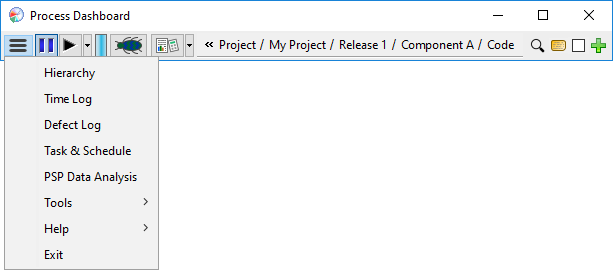
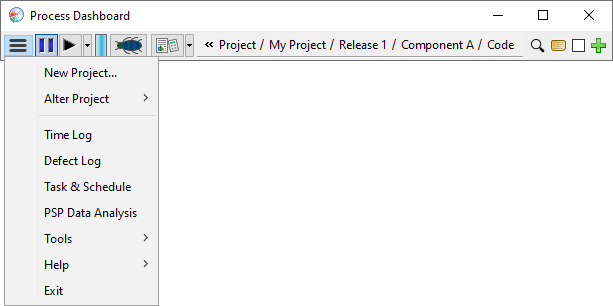
Update the help to describe project creation & modification

diff --git a/Templates/help/Topics/Planning/CreatingProjects.html b/Templates/help/Topics/Planning/CreatingProjects.html
@@ -1,0 +1,169 @@
+<html>
+<head>
+<title>Creating Projects</title>
+<link rel=stylesheet type="text/css" href="../../style.css">
+<link rel=stylesheet type="text/css" href="../../style-comp-table.css">
+</head>
+<body>
+
+
+<h1>Creating Projects</h1>
+
+<p>The Process Dashboard provides powerful support for planning,
+tracking, and managing a set of work.  To take advantage of these
+features, the first step is to create a project.</p>
+
+<p>Dashboard projects can support team work or individual work.  These
+two project types are described below.</p>
+
+
+<h2><a name="team"></a>Team Projects</h2>
+
+<p>If you will be collaborating with other people on the work, you
+should work with your team leader to create a team project.  A team
+project allows your team to share a common work breakdown structure,
+to support each other on shared tasks, and to see project-level
+reports that roll up data from everyone on the team.</p>
+
+<p>Team Projects are created within a Team Dashboard, which
+coordinates the flow of shared data.  Then, you and your team members
+join the project from your personal dashboard.</p>
+
+<p>See the <a href="../../../teamhelp/Topics/Overview.html">Team
+Use</a> section of the Users Manual for extensive help on the use of
+team projects to plan, track, and manage team work.</p>
+
+
+<h2><a name="personal"></a>Personal Projects</h2>
+
+<p>For independent work (or for times when your team members are not
+using the Process Dashboard), you can create a personal project.  A
+personal project:</p>
+
+<ul>
+
+<li>Gives you tools to quickly and easily create a detailed personal
+    task plan</li>
+
+<li>Helps you predict when the work might finish, so you can manage
+    your commitments to others</li>
+
+<li>Provides charts and reports for tracking your progress and
+    improving your process</li>
+
+</ul>
+
+<p>You can also use a personal project to capture data about a
+collection of miscellaneous tasks, even if you don't need to track
+your progress against a schedule. The
+<a href="../../../teamhelp/Topics/EditingTheWBS.html">Work Breakdown
+Structure Editor</a> makes it easy to enter the list of tasks.  Then
+you can use the dashboard toolbar to log time, mark tasks complete,
+etc.</p>
+
+<p>To create a personal project, just choose "New Project" from the 
+<a href="../Execution/ConfigureMenu.html">configuration menu</a>.</p>
+
+
+<h2>Comparing Project Types</h2>
+
+<p style="margin-bottom:16px">Team projects and personal projects are more
+alike than they are different.  Essentially, a personal project provides all
+of the same powerful planning and tracking tools that teams find useful,
+streamlined for a project that has only one team member.  The table below
+offers a comparison:</p>
+
+<table class="comparison" cellspacing="-1">
+
+<tr>
+<td style="border: 0px">&nbsp;</td>
+<td><b>Personal Project</b></td>
+<td><b>Team Project</b></td>
+</tr>
+
+<tr>
+<td class="label">Project is created in</td>
+<td>Personal Dashboard</td>
+<td>Team Dashboard</td>
+</tr>
+
+<tr>
+<td class="label">Number of people on the project</td>
+<td>1</td><td>Any number</td>
+</tr>
+
+<tr>
+<td class="label">Work breakdown structure</td>
+<td>&#x2714;</td><td>&#x2714;</td>
+</tr>
+
+<tr>
+<td class="label">Customizable process workflows</td>
+<td>&#x2714;</td><td>&#x2714;</td>
+</tr>
+
+<tr>
+<td class="label">Workflow process analysis reports</td>
+<td>&#x2714;</td><td>&#x2714;</td>
+</tr>
+
+<tr>
+<td class="label">Estimation tables</td>
+<td>&#x2714;</td><td>&#x2714;</td>
+</tr>
+
+<tr>
+<td class="label">Milestones</td>
+<td>&#x2714;</td><td>&#x2714;</td>
+</tr>
+
+<tr>
+<td class="label">Quality planning and tracking</td>
+<td>&#x2714;</td><td>&#x2714;</td>
+</tr>
+
+<tr>
+<td class="label">Schedule tracking charts and reports</td>
+<td>&#x2714;</td><td>&#x2714;</td>
+</tr>
+
+<tr>
+<td class="label">Personal schedule for tracking individual progress</td>
+<td>&#x2714;</td><td>&#x2714;</td>
+</tr>
+
+<tr>
+<td class="label">Rollup schedule for tracking team progress</td>
+<td></td><td>&#x2714;</td>
+</tr>
+
+<tr>
+<td class="label">Reports for analyzing personal project data</td>
+<td>&#x2714;</td><td>&#x2714;</td>
+</tr>
+
+<tr>
+<td class="label">Rollup reports for analyzing team project data</td>
+<td></td><td>&#x2714;</td>
+</tr>
+
+<tr>
+<td class="label">Master projects for multi-project rollups</td>
+<td></td><td>&#x2714;</td>
+</tr>
+
+<tr>
+<td class="label">Role-based permissions</td>
+<td></td><td>&#x2714;</td>
+</tr>
+
+<tr>
+<td class="label">Data privacy controls</td>
+<td></td><td>&#x2714;</td>
+</tr>
+
+</table>
+
+
+</body>
+</html>

diff --git a/Templates/help/Topics/Execution/ConfigureMenu.html b/Templates/help/Topics/Execution/ConfigureMenu.html
@@ -19,8 +19,27 @@ toolbar as small as possible.</P>
 you complete control of your personal data.</P>
 
 <ul>
- <li><a href="../Planning/UsingHierarchyEditor.html">Hierarchy</a> 
-   provides access to and simple editing of the project hierarchy.</li>
+ <li><a href="../Planning/CreatingProjects.html">New Project</a> allows you
+  to create a personal project for tracking individual work.</li>
+
+ <li><u>Alter Project</u> allows you to modify the currently selected
+   project:</li>
+
+   <ul>
+   <li><u>Rename / Relocate</u> lets you choose a different name for the
+     project.  You can also arrange projects into related groups, simply by
+     entering a group name, followed by a slash, followed by the project
+     name.</li>
+   <li><u>Relaunch</u> can be used to close a personal project and move the
+     remaining work to a fresh new project plan. It's useful at the beginning
+     of a new sprint, cycle, or iteration, when you want to focus on the work
+     moving forward.</li>
+   <li><u>Close</u> can be used on a personal project that has been finished
+     or cancelled, to indicate that no more work will be performed there.</li>
+   <li><u>Delete</u> will delete a personal project from your personal
+     dashboard, or "unjoin" you from a team project.</li>
+   </ul>
+
  <li><a href="UsingTimeLogEditor.html">Time Log</a> provides an editor that 
    allows editing of the time data measured in each project and task.</li>
  <li><a href="UsingDefectLogEditor.html">Defect Log</a> provides a listing of 
@@ -32,13 +51,15 @@ you complete control of your personal data.</P>
    Analysis</a> provides access to many helpful charts, graphs, and reports 
    for postmortem analysis of PSP data.</li>
 
- <li><u>Tools</u> provides access to a sub menu of less commonly used 
-   tools.</li>
+ <li><u><a name="tools"></a>Tools</u> provides access to a sub menu of less
+   commonly used tools.</li>
 
    <ul>
    <li><a href="../AdvancedTopics/PreferencesTool.html">Preferences</a>
      allows you to edit settings that affect the appearance and
      behavior of the Process Dashboard.</li>
+   <li><a href="../Planning/UsingHierarchyEditor.html">Hierarchy</a> 
+     provides access to and simple editing of the project hierarchy.</li>
    <li><a href="../Planning/UsingProbeTool.html">PROBE</a> provides access to
      a tool to help with the <b>PRO</b>xy <b>B</b>ased <b>E</B>stimation 
      method.</li>

diff --git a/Templates/help/Topics/Planning/Planning.html b/Templates/help/Topics/Planning/Planning.html
@@ -26,11 +26,10 @@ Engineering</I> Watts Humphrey devotes three chapters to planning
 activities.  This help topic will not rehash the ideas put forth there, but 
 will simply serve as a reminder that planning is essential!</P>
 
-<P>The Process Dashboard can provide some help in your planning activities.  
-The <a href="UsingHierarchyEditor.html">hierarchy editor</a> allows you to 
-enter a work breakdown structure for your activities into the dashboard so 
-that time, size, and defect data can be tracked, and the <a 
-href="UsingProbeTool.html">PROBE tool</a> and <a 
+<P>The Process Dashboard provides extensive help for your planning activities.
+You can <a href="CreatingProjects.html">create projects</a> and enter tasks
+in a work breakdown structure, so that time, size, and defect data can be
+tracked.  The <a  href="UsingProbeTool.html">PROBE tool</a> and <a 
 href="UsingProbeWizard.html">PROBE Wizard</a> help automate the <b>PRO</b>xy 
 <b>B</b>ased <b>E</b>stimation method.  Finally, the <a
 href="UsingTaskSchedule.html">Task and Schedule Tool</a> allows you to

diff --git a/Templates/help/Topics/Planning/UsingHierarchyEditor.html b/Templates/help/Topics/Planning/UsingHierarchyEditor.html
@@ -19,9 +19,10 @@ Structure Editor</a>.  The remainder of this help topic applies to
 
 <p>The personal Hierarchy Editor allows you to define a hierarchical
 collection of tasks that need to be performed, and to define the process
-elements that will be used for those tasks.  The hierarchy editor can be
-opened by selecting the "Hierarchy" option on the
-<a href="../Execution/ConfigureMenu.html">configuration menu</a>.</P>
+elements that will be used for those tasks.</P>
+
+<p>The hierarchy editor can be opened by selecting the "Hierarchy" option on
+the <a href="../Execution/ConfigureMenu.html#tools">Tools menu</a>.</p>
 
 <P>The Hierarchy Editor allows you to create and delete nodes in a project
 tree.  You can create any arbitrary node structure to organize the different

diff --git a/Templates/help/style-comp-table.css b/Templates/help/style-comp-table.css
@@ -1,0 +1,15 @@
+
+table.comparison {
+    border-collapse: collapse;
+    margin-left: 20px;
+}
+
+table.comparison td.label {
+    text-align: right;
+}
+
+table.comparison td {
+    border: 1px solid silver;
+    text-align: center;
+    padding: 5px 10px;
+}
